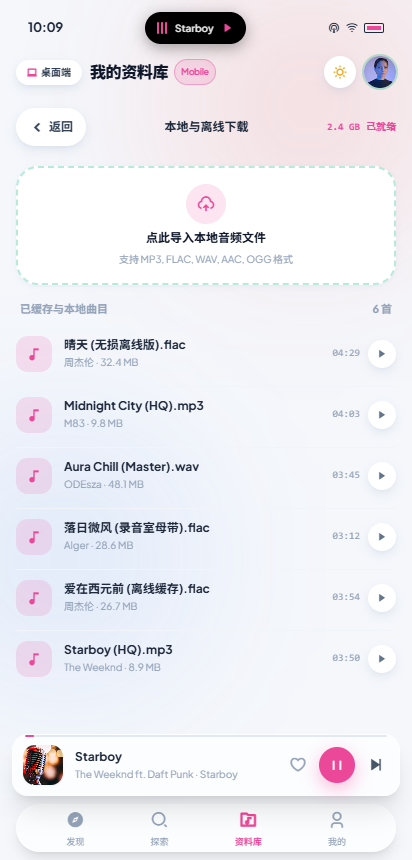
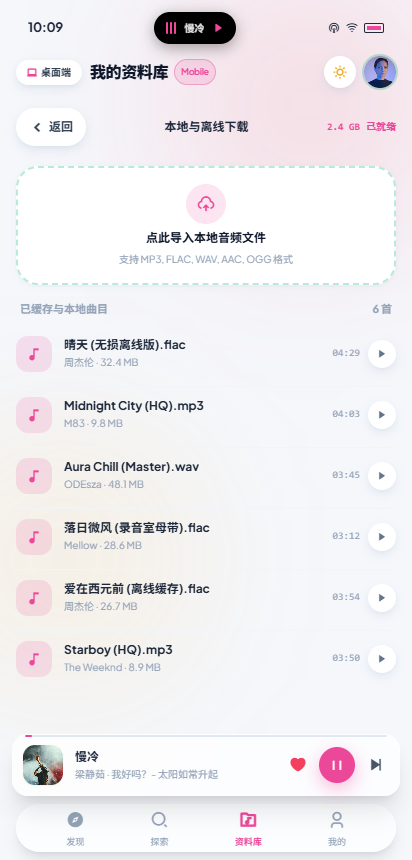
feat: rebrand project to Mellow Music (润音) with Modern Soft UI

diff --git a/mobile.html b/mobile.html
@@ -3,7 +3,7 @@
 <head>
   <meta charset="UTF-8">
   <meta name="viewport" content="width=device-width, initial-scale=1.0, maximum-scale=1.0, user-scalable=no, viewport-fit=cover">
-  <title>Alger Music · Modern Soft UI 手机移动端 (Native App 体验)</title>
+  <title>Mellow Music · 润音 · 移动端沉浸体验 (Modern Soft UI)</title>
 
   <!-- Tailwind CSS -->
   <script src="https://cdn.tailwindcss.com"></script>
@@ -536,7 +536,7 @@
           <img src="https://images.unsplash.com/photo-1534528741775-53994a69daeb?w=120&auto=format&fit=crop&q=80" class="w-14 h-14 rounded-full object-cover ring-2 ring-emerald-500/40">
           <div class="flex-1 min-w-0">
             <div class="text-sm font-bold text-slate-900 dark:text-white flex items-center gap-1.5">
-              <span>Alger</span>
+              <span>Mellow</span>
               <span class="text-[9px] px-2 py-0.5 rounded-full bg-amber-500/15 text-amber-600 dark:text-amber-400 font-bold border border-amber-500/20">VIP 8</span>
             </div>
             <div class="text-[10px] text-slate-400 mt-0.5">连续听歌 328 天 · 听歌排行 TOP 1%</div>
@@ -609,7 +609,7 @@
             <div id="mPlaylistDetailTitle" class="text-sm font-extrabold text-slate-900 dark:text-white truncate">落日微风 · 私人漫游</div>
             <div id="mPlaylistDetailCurator" class="text-[11px] text-slate-500 dark:text-slate-400 flex items-center gap-1.5">
               <i class="ri-user-smile-line text-emerald-500"></i>
-              <span>Alger 推荐制作</span>
+              <span>Mellow 推荐制作</span>
             </div>
             <div class="flex items-center gap-2 pt-1">
               <button onclick="playTrack(0)" class="soft-btn-primary px-3 py-1 rounded-full text-[11px] font-bold flex items-center gap-1 shadow-sm">
@@ -2159,7 +2159,7 @@
 
       const pData = RELEASES[idx % RELEASES.length] || {
         title: "落日微风 · 私人漫游",
-        artist: "Alger 推荐制作",
+        artist: "Mellow 推荐制作",
         cover: SONGS[0].cover
       };
 
@@ -2271,7 +2271,7 @@
     // 2. Playlist Square View Logic
     // ==========================================================================
     const PLAYLIST_SQUARE_ITEMS = [
-      { id: 0, title: "流行热歌速递 · 华语榜首", curator: "Alger 精选", count: "38 首", cover: "https://images.unsplash.com/photo-1514525253161-7a46d19cd819?w=400&auto=format&fit=crop&q=80", tag: "流行" },
+      { id: 0, title: "流行热歌速递 · 华语榜首", curator: "Mellow 精选", count: "38 首", cover: "https://images.unsplash.com/photo-1514525253161-7a46d19cd819?w=400&auto=format&fit=crop&q=80", tag: "流行" },
       { id: 1, title: "午后咖啡馆 · 治愈Lo-Fi", curator: "Chillhop", count: "50 首", cover: "https://images.unsplash.com/photo-1508700115892-45ecd05ae2ad?w=400&auto=format&fit=crop&q=80", tag: "Lo-Fi" },
       { id: 2, title: "经典摇滚不朽传奇", curator: "Rock Live", count: "42 首", cover: "https://images.unsplash.com/photo-1470225620780-dba8ba36b745?w=400&auto=format&fit=crop&q=80", tag: "摇滚" },
       { id: 3, title: "未来合成器 · 电子声浪", curator: "Cyber Beats", count: "29 首", cover: "https://images.unsplash.com/photo-1511671782779-c97d3d27a1d4?w=400&auto=format&fit=crop&q=80", tag: "电子" },
@@ -2352,7 +2352,7 @@
           songs: [0, 4, 1]
         },
         {
-          name: "🔥 热歌榜 (Alger Hot 500)",
+          name: "🔥 热歌榜 (Mellow Hot 500)",
           tag: "全网播放 TOP",
           color: "from-rose-500/20 to-amber-500/5",
           songs: [4, 0, 5]
@@ -2419,7 +2419,7 @@
       const container = document.getElementById('mRadioEpisodesContainer');
       if (!container) return;
       const EPISODES = [
-        { title: "Vol.128 深夜爵士与威士忌的低语", author: "Alger Radio", duration: "42:15", plays: "48.2万", cover: "https://images.unsplash.com/photo-1511671782779-c97d3d27a1d4?w=150" },
+        { title: "Vol.128 深夜爵士与威士忌的低语", author: "Mellow Radio", duration: "42:15", plays: "48.2万", cover: "https://images.unsplash.com/photo-1511671782779-c97d3d27a1d4?w=150" },
         { title: "Vol.127 走进久石让的纯真动画宇宙", author: "宫崎骏配乐档案馆", duration: "56:30", plays: "92.6万", cover: "https://images.unsplash.com/photo-1514525253161-7a46d19cd819?w=150" },
         { title: "Vol.126 电子合成器与未来复古狂潮", author: "Cyber Synthesizer", duration: "38:40", plays: "33.1万", cover: "https://images.unsplash.com/photo-1470225620780-dba8ba36b745?w=150" },
         { title: "Vol.125 雨夜咖啡馆 Lo-Fi 冥想专注流", author: "Chill & Work Studio", duration: "60:00", plays: "120.4万", cover: "https://images.unsplash.com/photo-1501386761578-eac5c94b800a?w=150" }
@@ -2545,8 +2545,8 @@
         songs: [2]
       },
       { 
-        name: "Alger", 
-        en: "Alger Music Lab", 
+        name: "Mellow", 
+        en: "Mellow Music Lab", 
         followers: "120 万", 
         avatar: "https://images.unsplash.com/photo-1534528741775-53994a69daeb?w=400&auto=format&fit=crop&q=80",
         bio: "独立音乐制作人与设计先锋，探索物理质感与自然微风声学。",
@@ -2661,7 +2661,7 @@
       { id: 101, title: "晴天 (无损离线版).flac", artist: "周杰伦", size: "32.4 MB", time: "04:29", idx: 0 },
       { id: 102, title: "Midnight City (HQ).mp3", artist: "M83", size: "9.8 MB", time: "04:03", idx: 1 },
       { id: 103, title: "Aura Chill (Master).wav", artist: "ODEsza", size: "48.1 MB", time: "03:45", idx: 2 },
-      { id: 104, title: "落日微风 (录音室母带).flac", artist: "Alger", size: "28.6 MB", time: "03:12", idx: 3 },
+      { id: 104, title: "落日微风 (录音室母带).flac", artist: "Mellow", size: "28.6 MB", time: "03:12", idx: 3 },
       { id: 105, title: "爱在西元前 (离线缓存).flac", artist: "周杰伦", size: "26.7 MB", time: "03:54", idx: 4 },
       { id: 106, title: "Starboy (HQ).mp3", artist: "The Weeknd", size: "8.9 MB", time: "03:50", idx: 5 }
     ];

diff --git a/index.html b/index.html
@@ -3,7 +3,7 @@
 <head>
   <meta charset="UTF-8">
   <meta name="viewport" content="width=device-width, initial-scale=1.0">
-  <title>Alger Music Player · Modern Soft UI 现代柔和质感版</title>
+  <title>Mellow Music · 润音 · Modern Soft UI 现代柔和质感版</title>
   
   <!-- Tailwind CSS CDN -->
   <script src="https://cdn.tailwindcss.com"></script>
@@ -524,7 +524,7 @@
               <i class="ri-disc-fill text-lg animate-spin" style="animation-duration: 8s;"></i>
             </div>
             <span class="font-bold text-[15px] tracking-tight text-slate-800 dark:text-slate-100 flex items-center gap-1.5">
-              Alger Music
+              Mellow Music · 润音
               <span class="header-brand-badge text-[10px] uppercase font-semibold px-2 py-0.5 rounded-full bg-emerald-500/10 text-emerald-600 dark:text-emerald-400 border border-emerald-500/20">Soft UI 5.2</span>
             </span>
           </div>
@@ -581,7 +581,7 @@
               <img src="https://images.unsplash.com/photo-1534528741775-53994a69daeb?w=100&auto=format&fit=crop&q=80" alt="Avatar" class="w-8 h-8 rounded-full object-cover ring-2 ring-emerald-500/40 shadow-sm">
               <span class="absolute -bottom-0.5 -right-0.5 w-3 h-3 bg-emerald-500 border-2 border-white dark:border-slate-900 rounded-full"></span>
             </div>
-            <span class="header-user-text text-xs font-semibold text-slate-700 dark:text-slate-200 hidden lg:inline">Alger</span>
+            <span class="header-user-text text-xs font-semibold text-slate-700 dark:text-slate-200 hidden lg:inline">Mellow</span>
           </div>
 
         </div>
@@ -654,7 +654,7 @@
               Hi·Res
             </div>
             <div class="min-w-0">
-              <div class="text-[11px] font-bold text-slate-800 dark:text-slate-200 truncate">Alger VIP 音质</div>
+              <div class="text-[11px] font-bold text-slate-800 dark:text-slate-200 truncate">Mellow VIP 音质</div>
               <div class="text-[10px] text-slate-400 truncate">192kHz / 24bit 母带</div>
             </div>
           </div>
@@ -791,7 +791,7 @@
                 
                 <div class="flex items-center justify-center md:justify-start gap-4 text-xs text-slate-400 pt-1">
                   <span id="detailCreator" class="flex items-center gap-1.5 font-medium text-slate-600 dark:text-slate-300">
-                    <i class="ri-user-3-line"></i> Alger Music
+                    <i class="ri-user-3-line"></i> Mellow Music
                   </span>
                   <span>·</span>
                   <span id="detailPlays"></span>
@@ -907,9 +907,9 @@
 
             <!-- About Card -->
             <div class="soft-card rounded-squircle p-5 space-y-2">
-              <div class="text-xs font-bold text-slate-900 dark:text-white">关于 AlgerMusicPlayer · Modern Soft UI</div>
+              <div class="text-xs font-bold text-slate-900 dark:text-white">关于 Mellow Music (润音) · Modern Soft UI</div>
               <p class="text-xs text-slate-500 dark:text-slate-400 leading-relaxed">
-                本套 UI 依据 Modern Soft UI / Calm Tech 规范为 AlgerMusicPlayer 深度重构定制，支持连续曲率圆角、双层漫散射景深微阴影、触感按压与声色联动的动态流动氛围光。
+                本套 UI 依据 Modern Soft UI / Calm Tech 规范为 Mellow Music（润音）深度定制打造，支持连续曲率圆角、三层漫散射景深微阴影、触感按压与声色联动的动态流动氛围光。
               </p>
             </div>
           </div>
@@ -1117,7 +1117,7 @@
               <div class="flex-1 text-center md:text-left space-y-3">
                 <div class="inline-flex items-center gap-2 px-3 py-1 rounded-full bg-emerald-500/10 text-emerald-600 dark:text-emerald-400 text-xs font-bold border border-emerald-500/20">
                   <i class="ri-verified-badge-fill text-amber-500"></i>
-                  <span>Alger 认证官方音乐人</span>
+                  <span>Mellow 认证官方音乐人</span>
                 </div>
                 <h1 id="artistDetailName" class="text-3xl font-extrabold text-slate-900 dark:text-white">歌手名</h1>
                 <p id="artistDetailStats" class="text-xs text-slate-400">1,290万 粉丝 · 5,420,100 月度听众</p>
@@ -1331,7 +1331,7 @@
         </div>
 
         <div class="pt-3 border-t border-white/10 flex justify-between items-center text-xs">
-          <span class="text-slate-400">Alger 智能无缝切歌</span>
+          <span class="text-slate-400">Mellow 智能无缝切歌</span>
           <button onclick="clearQueue()" class="text-rose-400 hover:text-rose-500 font-semibold">清空列表</button>
         </div>
       </div>
@@ -1602,7 +1602,7 @@
     const PLAYLISTS = [
       {
         id: 1,
-        title: "Alger 每日私享雷达",
+        title: "Mellow 每日私享雷达",
         desc: "依据听歌习惯智能生成的专属每日精选",
         cover: "https://images.unsplash.com/photo-1514525253161-7a46d19cd819?w=600&auto=format&fit=crop&q=80",
         plays: "2,410,920",
@@ -1892,7 +1892,7 @@
       const badge = document.getElementById('favCountBadge');
       if (badge) badge.textContent = likedSongIds.length;
       const stats = document.getElementById('favStatsText');
-      if (stats) stats.textContent = `收录了你在 Alger 发现保存的 ${likedSongIds.length} 首心动歌曲`;
+      if (stats) stats.textContent = `收录了你在 Mellow 发现保存的 ${likedSongIds.length} 首心动歌曲`;
     }
 
     // ==========================================================================
@@ -2036,7 +2036,7 @@
           songs: [0, 4, 1, 2, 3]
         },
         {
-          name: "🔥 热歌榜 (Alger Hot 500)",
+          name: "🔥 热歌榜 (Mellow Hot 500)",
           tag: "全网播放 TOP",
           gradient: "from-rose-500/20 to-amber-500/5",
           songs: [4, 0, 5, 2, 1]

diff --git a/e2e_test.js b/e2e_test.js
@@ -20,7 +20,7 @@ function recordResult(testName, passed, details = '') {
 
 async function runE2ETests() {
   console.log('\n======================================================');
-  console.log('🚀 AlgerMusicPlayer Modern Soft UI E2E Automated Audit');
+  console.log('🚀 Mellow Music · 润音 (Modern Soft UI) E2E Automated Audit');
   console.log('======================================================\n');
 
   const browser = await puppeteer.launch({

diff --git a/README.md b/README.md
@@ -1,6 +1,6 @@
-# AlgerMusicPlayer · Modern Soft UI (现代柔和微质感版)
+# Mellow Music · 润音 (Modern Soft UI 现代柔和微质感版)
 
-> 针对开源音乐播放器 [AlgerMusicPlayer](https://github.com/algerkong/AlgerMusicPlayer) 深度定制的 **Modern Soft UI（现代柔和微质感 / Soft Depth & Tactility / Calm Tech）** 全套交互式 UI 系统与高保真原型。
+> 专为全平台高保真体验打造的 **Modern Soft UI（现代柔和微质感 / Soft Depth & Tactility / Calm Tech）** 原生双端音乐播放器交互系统与原型。
 
 [![E2E Tests](https://img.shields.io/badge/E2E%20Tests-83%2F83%20Passed%20(100%25)-emerald?style=flat-square&logo=puppeteer)](e2e_test.js)
 [![UI Style](https://img.shields.io/badge/Design%20System-Modern%20Soft%20UI-pink?style=flat-square)](design_tokens.css)
@@ -125,8 +125,8 @@ Prototype meets the full Deliverable Production Standard (交付标准).
 ### 快速启动
 ```bash
 # 1. 克隆代码库
-git clone https://github.com/Kline-x/AlgerMusicPlayer-ModernSoftUI.git
-cd AlgerMusicPlayer-ModernSoftUI
+git clone https://github.com/Kline-x/mellow-music-player.git
+cd mellow-music-player
 
 # 2. 安装测试依赖
 npm install
